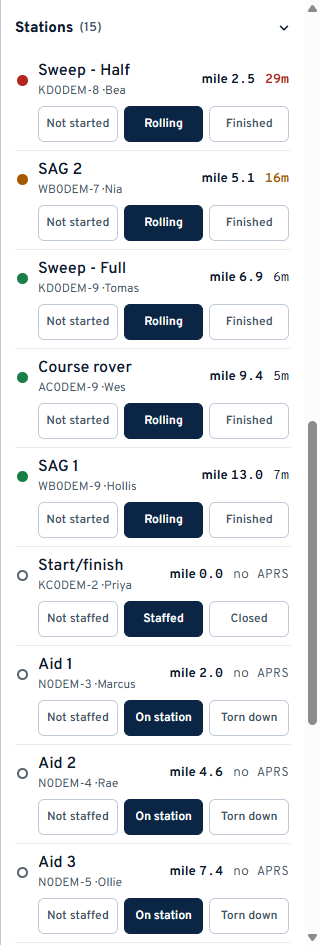
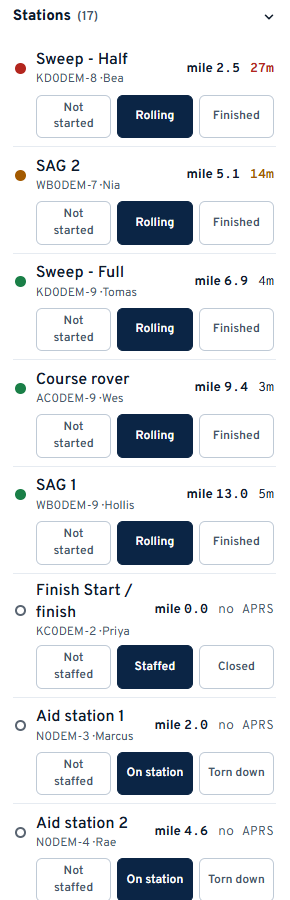
feat: a posted station's row is named by its place (#201)
Claude-Session: https://claude.ai/code/session_01QkbtsMnQEe8HZ7xyxXHYHB

diff --git a/src/courseops/static/app.js b/src/courseops/static/app.js
@@ -1265,11 +1265,19 @@ function renderStations() {
     // The operator's name earns a second line only when there is one, so an
     // event that never fills them in looks exactly as it did before.
     const who = operatorOf(stationKey);
+    // A posted station is read by the place it staffs ("Water Stop Alpha"),
+    // not by the roster's label, which is whatever short code the club typed
+    // ("WA") and says nothing to someone who did not type it. Unposted
+    // stations (sweeps, SAG) have no place, so the label is all there is.
+    const postedAt = state.roster.get(stationKey);
+    const rowName = postedAt && postedAt.poi_id != null
+      ? placeName(postedAt.poi_id, labelOf(stationKey))
+      : labelOf(stationKey);
     const nameCell = who
-      ? `<span class="name">${escapeHtml(labelOf(stationKey))}` +
+      ? `<span class="name">${escapeHtml(rowName)}` +
         `<span class="who">${escapeHtml(stationKey)} · ${escapeHtml(who)}</span>` +
         `</span>`
-      : `<span class="name">${escapeHtml(labelOf(stationKey))}</span>`;
+      : `<span class="name">${escapeHtml(rowName)}</span>`;
 
     locate.innerHTML =
       `<span class="dot dot--${status}"></span>` +

diff --git a/CLAUDE.md b/CLAUDE.md
@@ -1205,6 +1205,8 @@ Rules that keep this honest:
 
 Last 10 entries; full record in `CHANGELOG.md`.
 
+- **2026-10-13** A posted station's row on the stations list is named by its place ("Water Stop Alpha"), not the roster's short label; unposted stations keep the label.
+- **2026-10-12** A place's popup lists who is stationed there (callsign and name), built when the popup opens so socket posting changes show.
 - **2026-10-01** A stop ticked for a race reaches 500 m from that race's line (`progress.STATED_MAX_OFFSET_M`), not 250: the organizer spaced the Mankato lines apart on purpose, so stop A is 284 m off the Half. Unticked stops keep 250.
 - **2026-09-29** Replace from an updated file: Import's assign box can put a staged line INTO an existing race or ONE point INTO an existing place (nearest first); only geometry changes, the line is re-turned to its start.
 - **2026-09-29** Fixed: a place's mile is measured on a race it serves (not the nearest line), at the pass the club's order means; lead runner pace/ETA measured on the leader's own race.
@@ -1213,5 +1215,3 @@ Last 10 entries; full record in `CHANGELOG.md`.
 - **2026-09-29** Print roster (setup, Roster tab): callsign, operator, post, GPS, W3W in course order, unposted last; the browser's Save as PDF is the PDF.
 - **2026-09-29** Race start times: a Start column on the Courses tab, shown beside the bib colour in each race's lead runners heading; `course.start_time`, 'HH:MM' in the event's zone, never converted.
 - **2026-09-29** Net info: the net's repeaters and tones as free text on the event form, shown to every role at the top of the panel (on a phone, above the lifted role sections).
-- **2026-09-27** Pre-event beacon check-in is optional when operators are not local; race morning's Needs attention and a glance per row at net check-in cover it. First real event recorded in `docs/PLAN.md`.
-- **2026-09-27** Archive an event (#4): tracking off, positions deleted, links 404, hidden behind Show archived; Download / `courseops export` writes one event to a SQLite file, `serve --db` reads it.

diff --git a/src/courseops/guides/net-control.md b/src/courseops/guides/net-control.md
@@ -35,7 +35,10 @@ stamped with it, which is what makes a shift handover readable.
 ![The stations list, each row with its status buttons](images/ncs-stations.png)
 
 Each row is one roster entry: its name, callsign, the operator, how far along
-the course it is, and how long since we heard it.
+the course it is, and how long since we heard it. An operator posted at a place
+is listed by that place's name (*Water Stop Alpha*); a sweep or SAG, who has no
+place, is listed by the label on the roster. Tap a place's pin on the map and
+the popup lists who is stationed there, callsign and name.
 
 Set the status as it is reported on the net. The buttons are worded for the kind
 of station - an aid station is *Not staffed / On station / Torn down*, a sweep is

diff --git a/CHANGELOG.md b/CHANGELOG.md
@@ -11,6 +11,14 @@ month, PATCH counting releases in that month from 0. Before that they were
 
 ## [Unreleased]
 
+### Changed
+
+- **A posted station's row on the stations list is named by its place.**
+  The row showed the roster's label - the short code typed at setup ("WA") -
+  which means nothing to anyone who did not type it. A station posted at a
+  place now reads "Water Stop Alpha" (the same layer-plus-name `placeName`
+  gives everywhere else); unposted stations (sweeps, SAG) keep their label.
+
 ## [2026.10.1] - 2026-10-12
 
 ### Added
